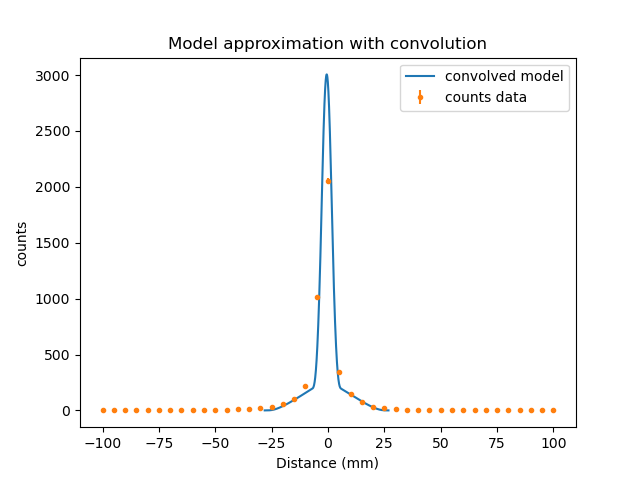
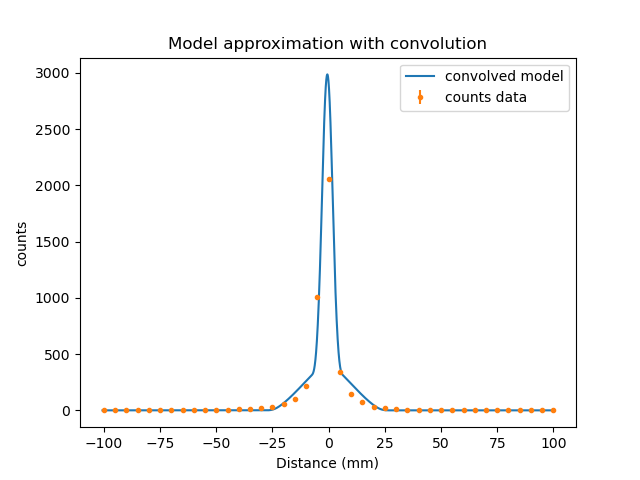
Created the convolution model in a callable method for fitting

diff --git a/Methods.py b/Methods.py
@@ -351,3 +351,59 @@ def gaussian_1d(coords, amplitude, x0, sigma_x, offset):
     # The exponent for a 2D Gaussian
     inner = ((x - x0)**2 / (2 * sigma_x**2))
     return amplitude * np.exp(-inner) + offset
+
+
+
+def singleSlit(coords, amplitude, x0, W, L):
+    x = coords
+    return np.maximum(amplitude * np.arctan((W/2 - np.abs(x-x0))/L), 0)
+
+def circleConvolve(R,x,x0):
+    return np.maximum(0,2*np.sqrt(R**2-(x-x0)**2))
+
+def sphereConvolve(R,x,x0):
+    return np.maximum(0,np.pi*(R**2-(x-x0)**2))
+
+def doubleSlitModelConvoluted(xArr, Wslit, Rscint, Rsource, alpha, amplitude, x0, L, collection_time):
+    distanceStep = xArr[1] - xArr[0]
+    Wscint = 2 * Rscint
+    background = 0.02359289617486339 * collection_time
+
+
+    Xscint = np.arange(start=-Rscint + x0,stop=Rscint + x0,step=distanceStep)
+    scintArr = circleConvolve(Rscint, Xscint, x0)
+    scintSlitArr = circleConvolve(Rscint, Xscint, x0)
+    scintSlitArr[0:np.round((Rscint-Wslit/2)/distanceStep).astype(int)] = 0
+    scintSlitArr[np.round((Rscint+Wslit/2)/distanceStep).astype(int):len(scintArr)] = 0
+
+    Xsource = np.arange(start=-Rsource + x0,stop=Rsource + x0,step=distanceStep)
+    sourceArr = sphereConvolve(Rsource, Xsource, x0)
+    sourceArr = sourceArr/sum(sourceArr)
+
+
+
+    XstackedSlit = np.arange(start=-Rscint + x0, stop=Rscint + x0, step=distanceStep)
+    slitArr = singleSlit(XstackedSlit, amplitude, x0, Wslit, L) * (1-alpha)
+    gateArr = singleSlit(XstackedSlit, amplitude, x0, Wscint, L) * alpha
+    slitArr = np.multiply(slitArr, scintSlitArr)
+    gateArr = np.multiply(gateArr, scintArr)
+    slitGateCombined = gateArr + slitArr
+
+    convolvedSignal = np.convolve(slitGateCombined, sourceArr, mode='full')
+    convolvedX = np.arange(start=-len(convolvedSignal)/2, stop=len(convolvedSignal)/2, step=1) * 0.05 + x0
+    convolvedSignal = convolvedSignal + background
+
+    if (len(convolvedSignal) < len(xArr)):
+        convolvedSignal = np.pad(convolvedSignal, np.round((len(xArr) - len(convolvedX))/2).astype(int), mode='constant' ,constant_values=background)
+    elif (len(convolvedSignal) > len(xArr)):
+        convolvedSignal = convolvedSignal[-len(xArr)/2:len(xArr)/2]
+    # May need to do additional checks of inequality (in case of off-by-1 error)
+
+    if (len(convolvedSignal) < len(xArr)):
+        convolvedSignal = np.append(convolvedSignal, convolvedSignal[-1])
+    elif (len(convolvedSignal) > len(xArr)):
+        convolvedSignal = np.delete(convolvedSignal, -1)
+
+
+    return convolvedSignal
+
